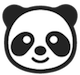
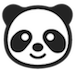
Ponyo and Panda

diff --git a/public/stylesheets/css/wedding.css b/public/stylesheets/css/wedding.css
@@ -87,10 +87,10 @@
   @media only screen and (max-width: 768px) {
     .hero #ponyo {
       height: auto;
-      width: 45px; }
+      width: 38px; }
     .hero #panda {
       height: auto;
-      width: 49px; }
+      width: 42px; }
     .hero .text-shadow {
       background: none; }
     .hero p {
@@ -173,4 +173,4 @@
     color: #000;
     font-size: 54px; }
 
[2 lines of base64/hex data omitted]

diff --git a/public/stylesheets/css/wedding.min.css b/public/stylesheets/css/wedding.min.css
@@ -1,1 +1,1 @@
-.hero h1,.hero p,.text-vcenter{text-align:center}@font-face{font-family:'Open Sans';font-style:normal;font-weight:400;src:local('Open Sans'),local('OpenSans'),url(../../fonts.gstatic.com/s/opensans/v13/cJZKeOuBrn4kERxqtaUH3aCWcynf_cDxXwCLxiixG1c.ttf) format('truetype')}.ios .parallax-bg,.mobile .parallax-bg{background-attachment:scroll}.ios .parallax-bg{height:600px}.parallax-bg{color:#fff;display:table;height:800px;position:relative;width:100%;background-repeat:no-repeat;background-position:center center;background-attachment:fixed;background-size:cover;-webkit-background-size:cover;-moz-background-size:cover;-o-background-size:cover}.mobile .parallax-bg{height:500px}#our-story p{margin-bottom:13px}#our-story .yes{margin-top:2px;margin-bottom:15px}.parallax-bg h1{letter-spacing:4px;font-size:5em;font-weight:400}@media (max-width:768px){.parallax-bg h1{font-size:3.2em}#hero{background-image:url(/images/hero/mobile/hero.jpg)}#proposal{background-image:url(/images/hero/mobile/hero-2.jpg)}#yes{background-image:url(/images/hero/mobile/hero-3.jpg)}#happy{background-image:url(/images/hero/mobile/hero-4.jpg)}}@media (min-width:769px){#hero{background-image:url(/images/hero/full/hero.jpg);background-position:center top}#proposal{background-image:url(/images/hero/full/hero-2.jpg)}#yes{background-image:url(/images/hero/full/hero-3.jpg)}#happy{background-image:url(/images/hero/full/hero-4.jpg)}}.hero{height:100vh}.hero h1{font-size:3.2rem;line-height:1.6em;font-weight:300}.hero p{line-height:1.75em;font-weight:200;font-size:2rem;margin-top:13px;margin-bottom:2rem}.hero .text-shadow{background:rgba(0,0,0,.2);padding:10px}@media only screen and (min-width:992px){.hero h1{font-size:5.5rem!important}.hero p{font-size:3rem!important;margin-top:8px}}@media only screen and (max-width:768px){.hero #ponyo{height:auto;width:45px}.hero #panda{height:auto;width:49px}.hero .text-shadow{background:0 0}.hero p{margin-top:0}}.pad-section{padding:50px 0}.pad-section img{width:100%}.text-vcenter{display:table-cell;vertical-align:middle}.text-vcenter h1{font-weight:700;margin:0;padding:0}#hero h1{font-size:3.2em}.info-row{padding-right:15px;padding-left:15px}.infostitial{width:66.66%;margin-top:70px;margin-bottom:70px;padding:20px 0;float:none;border:3px solid;border-color:#a73b73 #A73B73 #c0548c}.infostitial h2{color:#A73B73}.infostitial p{font-size:20px}.infostitial a{font-size:18px}.infostitial .copyx{display:none!important}@media only screen and (max-width:40.063em){.infostitial{width:99.99%}}.backtotop .snack-bar{display:inline-block;border-radius:18px;height:47px;width:178px;color:rgba(167,59,115,.9);border:2px solid rgba(167,59,115,.9);font-size:15px}.backtotop .snack-bar:hover{background:rgba(167,59,115,.9);color:#fff}.backtotop a{padding-top:11px;color:#000}.backtotop a:active,.backtotop a:focus,.backtotop a:hover,.backtotop a:visited{text-decoration:none}@media only screen and (max-width:992px){#hero h1{font-size:2.2em!important}}.text-section{border:none;padding:130px 15px}.text-section h2{margin-top:0;color:#000;font-size:54px}
+.hero h1,.hero p,.text-vcenter{text-align:center}@font-face{font-family:'Open Sans';font-style:normal;font-weight:400;src:local('Open Sans'),local('OpenSans'),url(../../fonts.gstatic.com/s/opensans/v13/cJZKeOuBrn4kERxqtaUH3aCWcynf_cDxXwCLxiixG1c.ttf) format('truetype')}.ios .parallax-bg,.mobile .parallax-bg{background-attachment:scroll}.ios .parallax-bg{height:600px}.parallax-bg{color:#fff;display:table;height:800px;position:relative;width:100%;background-repeat:no-repeat;background-position:center center;background-attachment:fixed;background-size:cover;-webkit-background-size:cover;-moz-background-size:cover;-o-background-size:cover}.mobile .parallax-bg{height:500px}#our-story p{margin-bottom:13px}#our-story .yes{margin-top:2px;margin-bottom:15px}.parallax-bg h1{letter-spacing:4px;font-size:5em;font-weight:400}@media (max-width:768px){.parallax-bg h1{font-size:3.2em}#hero{background-image:url(/images/hero/mobile/hero.jpg)}#proposal{background-image:url(/images/hero/mobile/hero-2.jpg)}#yes{background-image:url(/images/hero/mobile/hero-3.jpg)}#happy{background-image:url(/images/hero/mobile/hero-4.jpg)}}@media (min-width:769px){#hero{background-image:url(/images/hero/full/hero.jpg);background-position:center top}#proposal{background-image:url(/images/hero/full/hero-2.jpg)}#yes{background-image:url(/images/hero/full/hero-3.jpg)}#happy{background-image:url(/images/hero/full/hero-4.jpg)}}.hero{height:100vh}.hero h1{font-size:3.2rem;line-height:1.6em;font-weight:300}.hero p{line-height:1.75em;font-weight:200;font-size:2rem;margin-top:13px;margin-bottom:2rem}.hero .text-shadow{background:rgba(0,0,0,.2);padding:10px}@media only screen and (min-width:992px){.hero h1{font-size:5.5rem!important}.hero p{font-size:3rem!important;margin-top:8px}}@media only screen and (max-width:768px){.hero #ponyo{height:auto;width:38px}.hero #panda{height:auto;width:42px}.hero .text-shadow{background:0 0}.hero p{margin-top:0}}.pad-section{padding:50px 0}.pad-section img{width:100%}.text-vcenter{display:table-cell;vertical-align:middle}.text-vcenter h1{font-weight:700;margin:0;padding:0}#hero h1{font-size:3.2em}.info-row{padding-right:15px;padding-left:15px}.infostitial{width:66.66%;margin-top:70px;margin-bottom:70px;padding:20px 0;float:none;border:3px solid;border-color:#a73b73 #A73B73 #c0548c}.infostitial h2{color:#A73B73}.infostitial p{font-size:20px}.infostitial a{font-size:18px}.infostitial .copyx{display:none!important}@media only screen and (max-width:40.063em){.infostitial{width:99.99%}}.backtotop .snack-bar{display:inline-block;border-radius:18px;height:47px;width:178px;color:rgba(167,59,115,.9);border:2px solid rgba(167,59,115,.9);font-size:15px}.backtotop .snack-bar:hover{background:rgba(167,59,115,.9);color:#fff}.backtotop a{padding-top:11px;color:#000}.backtotop a:active,.backtotop a:focus,.backtotop a:hover,.backtotop a:visited{text-decoration:none}@media only screen and (max-width:992px){#hero h1{font-size:2.2em!important}}.text-section{border:none;padding:130px 15px}.text-section h2{margin-top:0;color:#000;font-size:54px}

diff --git a/public/stylesheets/css/navbar.css b/public/stylesheets/css/navbar.css
@@ -3,7 +3,17 @@
   .navbar .navbar-brand {
     font-size: 20px;
     color: #000;
-    letter-spacing: 2px; }
+    letter-spacing: 2px;
+    padding-right: 6px; }
+  .navbar .navbar-icon {
+    display: inline-block;
+    height: auto;
+    width: 45px;
+    padding-top: 3px; }
+  @media only screen and (max-width: 768px) {
+    .navbar .navbar-icon {
+      width: 35px;
+      padding-top: 8px; } }
   .navbar .navbar-nav a {
     font-size: 16px; }
   .navbar .nav a {
@@ -26,4 +36,4 @@
 .rsvp .nav-rsvp a {
   color: #000; }
 
[2 lines of base64/hex data omitted]

diff --git a/public/stylesheets/css/wedding-layout.css b/public/stylesheets/css/wedding-layout.css
@@ -35,4 +35,4 @@ h4 {
 .transform-none {
   text-transform: none; }
 
[2 lines of base64/hex data omitted]

diff --git a/public/stylesheets/css/navbar.min.css b/public/stylesheets/css/navbar.min.css
@@ -1,1 +1,1 @@
-.navbar{margin-bottom:0}.navbar .navbar-brand{font-size:20px;color:#000;letter-spacing:2px}.navbar .navbar-nav a{font-size:16px}.navbar .nav a{color:#c4c4c4;letter-spacing:1px}.navbar .nav a:hover{background:0 0!important;border-radius:0!important;box-shadow:none!important;text-shadow:none!important;color:#dedede!important}.navbar .icon-bar{background:#000}.navbar .container{margin-top:10px;margin-bottom:10px}.home-page .nav-welcome a,.map-page .nav-map a,.rsvp .nav-rsvp a{color:#000}
+.navbar{margin-bottom:0}.navbar .navbar-brand{font-size:20px;color:#000;letter-spacing:2px;padding-right:6px}.navbar .navbar-icon{display:inline-block;height:auto;width:45px;padding-top:3px}@media only screen and (max-width:768px){.navbar .navbar-icon{width:35px;padding-top:8px}}.navbar .navbar-nav a{font-size:16px}.navbar .nav a{color:#c4c4c4;letter-spacing:1px}.navbar .nav a:hover{background:0 0!important;border-radius:0!important;box-shadow:none!important;text-shadow:none!important;color:#dedede!important}.navbar .icon-bar{background:#000}.navbar .container{margin-top:10px;margin-bottom:10px}.home-page .nav-welcome a,.map-page .nav-map a,.rsvp .nav-rsvp a{color:#000}

diff --git a/public/js/es5/map.js b/public/js/es5/map.js
@@ -8,8 +8,8 @@ function initMap() {
 
     var map = new google.maps.Map(document.getElementById('map'), {
         center: latLong,
-        zoom: 15,
-        draggable: !isMobile()
+        zoom: 15
+        //draggable: !isMobile()
     });
 
     var contentString = '<div id="info-window">' + '<h4>Pembroke Lodge</h4>' + '<a href="https://goo.gl/maps/YHvbFPW7f9Q2" target="_blank">' + '<img class="img-responsive" src="/images/pembroke.jpg">' + '</a>' + '<ul class="action-list">' + '<li><a href="https://goo.gl/maps/aUs2Cu8RqLm" target="_blank">Get directions</a></li>' + '<li><a href="https://goo.gl/maps/YHvbFPW7f9Q2" target="_blank">See on Google maps</a></li>' + '</ul>' + '</div>';

diff --git a/public/stylesheets/scss/navbar.scss b/public/stylesheets/scss/navbar.scss
@@ -9,6 +9,21 @@ $default: #c4c4c4;
     font-size: 20px;
     color: $black;
     letter-spacing: 2px;
+    padding-right: 6px;
+  }
+
+  .navbar-icon {
+    display: inline-block;
+    height: auto;
+    width: 45px;
+    padding-top: 3px;
+  }
+
+  @media only screen and (max-width: 768px) {
+    .navbar-icon {
+      width: 35px;
+      padding-top: 8px;
+    }
   }
 
   .navbar-nav a {

diff --git a/public/stylesheets/scss/wedding.scss b/public/stylesheets/scss/wedding.scss
@@ -146,12 +146,12 @@ $hero-p-font-size: 2rem;
   @media only screen and (max-width: 768px) {
     #ponyo {
       height: auto;
-      width: 45px;
+      width: 38px;
     }
 
     #panda {
       height: auto;
-      width: 49px;
+      width: 42px;
     }
 
     .text-shadow {

diff --git a/public/js/es6/map.js b/public/js/es6/map.js
@@ -8,8 +8,8 @@ function initMap() {
 
     var map = new google.maps.Map(document.getElementById('map'), {
         center: latLong,
-        zoom: 15,
-        draggable: !isMobile()
+        zoom: 15
+        //draggable: !isMobile()
     });
 
     var contentString =

diff --git a/public/stylesheets/scss/wedding-layout.scss b/public/stylesheets/scss/wedding-layout.scss
@@ -1,4 +1,5 @@
 $light-purple: #A73B73;
+//Wedding theme - Light Green #adefd6
 $h3-font-size: 28px;
 $h4-font-size: 22px;
 
